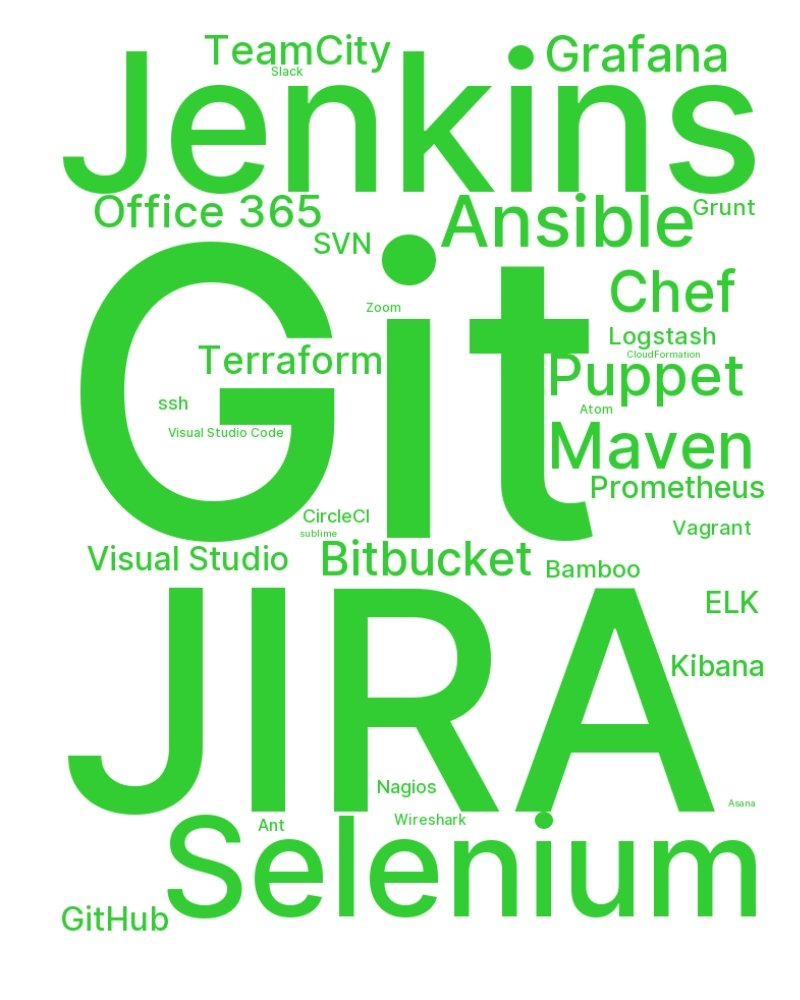
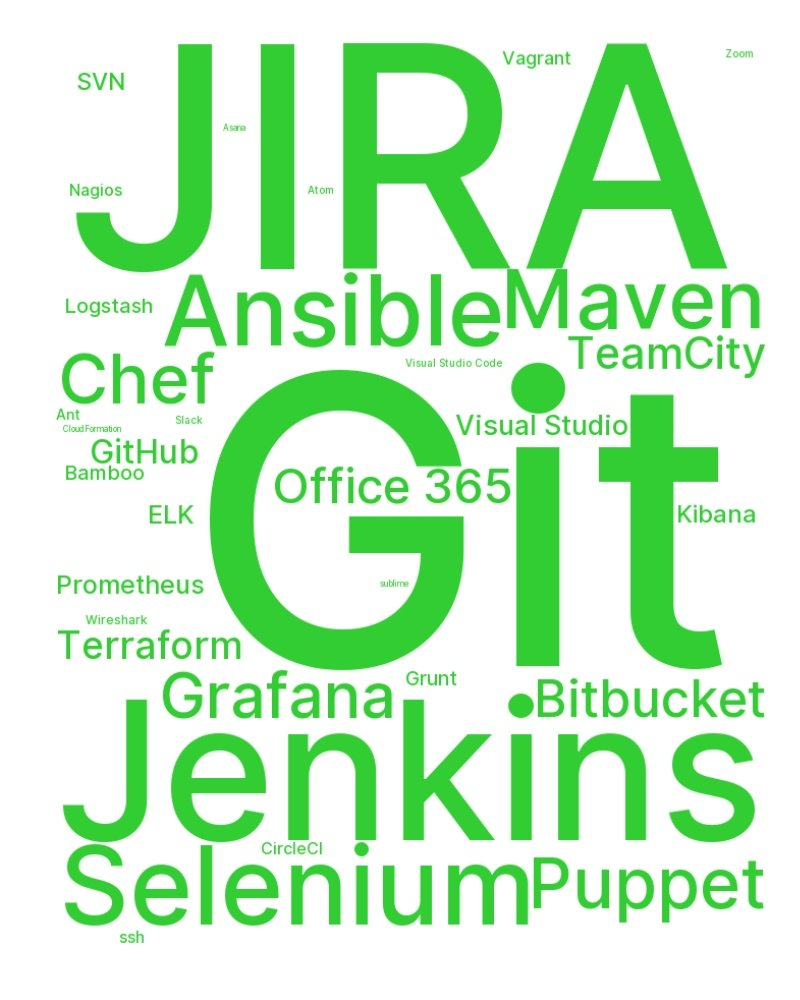
Built: 2020-03-03 21:35:23

diff --git a/index.html b/index.html
@@ -365,7 +365,7 @@ function enableBtn(){
         </h1>
         <h5>Darbdavių ieškomų kompetencijų TOP 10</h5>
         <p class="lead">Atnaujinta: 2020-03-03</p>
-	<p style="display:none;">Duomenys surinkti: 2020-03-03 06:21:13</p>
+	<p style="display:none;">Duomenys surinkti: 2020-03-03 21:33:06</p>
       </div>
     </div>
     <div class="rad-showcase__bga">
@@ -444,43 +444,43 @@ function enableBtn(){
         <div class="progress">
           <div class="progress-bar alltopkwds" role="progressbar" style="width: 100%;" aria-valuenow="25" aria-valuemin="0" aria-valuemax="100">Java</div>
         </div>
-        <p class="salary-range">Siūlomas vid. atlygis: 2377 - 4380 EUR (bruto) </p>
+        <p class="salary-range">Siūlomas vid. atlygis: 2381 - 4371 EUR (bruto) </p>
         <div class="progress">
-          <div class="progress-bar alltopkwds" role="progressbar" style="width: 92%;" aria-valuenow="25" aria-valuemin="0" aria-valuemax="100">JavaScript</div>
+          <div class="progress-bar alltopkwds" role="progressbar" style="width: 90%;" aria-valuenow="25" aria-valuemin="0" aria-valuemax="100">JavaScript</div>
         </div>
-        <p class="salary-range">Siūlomas vid. atlygis: 2433 - 4181 EUR (bruto) </p>
+        <p class="salary-range">Siūlomas vid. atlygis: 2435 - 4181 EUR (bruto) </p>
         <div class="progress">
-          <div class="progress-bar alltopkwds" role="progressbar" style="width: 77%;" aria-valuenow="25" aria-valuemin="0" aria-valuemax="100">Linux</div>
+          <div class="progress-bar alltopkwds" role="progressbar" style="width: 75%;" aria-valuenow="25" aria-valuemin="0" aria-valuemax="100">Linux</div>
         </div>
         <p class="salary-range">Siūlomas vid. atlygis: 2307 - 3871 EUR (bruto) </p>
         <div class="progress">
-          <div class="progress-bar alltopkwds" role="progressbar" style="width: 72%;" aria-valuenow="25" aria-valuemin="0" aria-valuemax="100">Git</div>
+          <div class="progress-bar alltopkwds" role="progressbar" style="width: 71%;" aria-valuenow="25" aria-valuemin="0" aria-valuemax="100">Git</div>
         </div>
-        <p class="salary-range">Siūlomas vid. atlygis: 2537 - 3984 EUR (bruto) </p>
+        <p class="salary-range">Siūlomas vid. atlygis: 2543 - 3991 EUR (bruto) </p>
         <div class="progress">
-          <div class="progress-bar alltopkwds" role="progressbar" style="width: 70%;" aria-valuenow="25" aria-valuemin="0" aria-valuemax="100">PHP</div>
+          <div class="progress-bar alltopkwds" role="progressbar" style="width: 68%;" aria-valuenow="25" aria-valuemin="0" aria-valuemax="100">PHP</div>
         </div>
         <p class="salary-range">Siūlomas vid. atlygis: 2490 - 4014 EUR (bruto) </p>
         <div class="progress">
-          <div class="progress-bar alltopkwds" role="progressbar" style="width: 64%;" aria-valuenow="25" aria-valuemin="0" aria-valuemax="100">Docker</div>
+          <div class="progress-bar alltopkwds" role="progressbar" style="width: 63%;" aria-valuenow="25" aria-valuemin="0" aria-valuemax="100">Docker</div>
         </div>
-        <p class="salary-range">Siūlomas vid. atlygis: 2586 - 4604 EUR (bruto) </p>
+        <p class="salary-range">Siūlomas vid. atlygis: 2589 - 4597 EUR (bruto) </p>
         <div class="progress">
-          <div class="progress-bar alltopkwds" role="progressbar" style="width: 60%;" aria-valuenow="25" aria-valuemin="0" aria-valuemax="100">React</div>
+          <div class="progress-bar alltopkwds" role="progressbar" style="width: 58%;" aria-valuenow="25" aria-valuemin="0" aria-valuemax="100">React</div>
         </div>
         <p class="salary-range">Siūlomas vid. atlygis: 2683 - 4716 EUR (bruto) </p>
         <div class="progress">
-          <div class="progress-bar alltopkwds" role="progressbar" style="width: 57%;" aria-valuenow="25" aria-valuemin="0" aria-valuemax="100">Python</div>
+          <div class="progress-bar alltopkwds" role="progressbar" style="width: 56%;" aria-valuenow="25" aria-valuemin="0" aria-valuemax="100">Python</div>
         </div>
-        <p class="salary-range">Siūlomas vid. atlygis: 2531 - 4206 EUR (bruto) </p>
+        <p class="salary-range">Siūlomas vid. atlygis: 2532 - 4206 EUR (bruto) </p>
         <div class="progress">
-          <div class="progress-bar alltopkwds" role="progressbar" style="width: 54%;" aria-valuenow="25" aria-valuemin="0" aria-valuemax="100">.NET</div>
+          <div class="progress-bar alltopkwds" role="progressbar" style="width: 53%;" aria-valuenow="25" aria-valuemin="0" aria-valuemax="100">.NET</div>
         </div>
-        <p class="salary-range">Siūlomas vid. atlygis: 2666 - 4380 EUR (bruto) </p>
+        <p class="salary-range">Siūlomas vid. atlygis: 2680 - 4380 EUR (bruto) </p>
         <div class="progress">
           <div class="progress-bar alltopkwds" role="progressbar" style="width: 52%;" aria-valuenow="25" aria-valuemin="0" aria-valuemax="100">CSS</div>
         </div>
-        <p class="salary-range">Siūlomas vid. atlygis: 2122 - 3818 EUR (bruto) </p>
+        <p class="salary-range">Siūlomas vid. atlygis: 2120 - 3821 EUR (bruto) </p>
       </div>
     </div>
   </div>
@@ -544,31 +544,31 @@ function enableBtn(){
         <div class="progress">
           <div class="progress-bar platforms" role="progressbar" style="width: 83%;" aria-valuenow="25" aria-valuemin="0" aria-valuemax="100">Docker</div>
         </div>
-        <p class="salary-range">Siūlomas vid. atlygis: 2586 - 4604 EUR (bruto) </p>
+        <p class="salary-range">Siūlomas vid. atlygis: 2589 - 4597 EUR (bruto) </p>
         <div class="progress">
-          <div class="progress-bar platforms" role="progressbar" style="width: 60%;" aria-valuenow="25" aria-valuemin="0" aria-valuemax="100">AWS</div>
+          <div class="progress-bar platforms" role="progressbar" style="width: 61%;" aria-valuenow="25" aria-valuemin="0" aria-valuemax="100">AWS</div>
         </div>
-        <p class="salary-range">Siūlomas vid. atlygis: 2688 - 4648 EUR (bruto) </p>
+        <p class="salary-range">Siūlomas vid. atlygis: 2672 - 4594 EUR (bruto) </p>
         <div class="progress">
-          <div class="progress-bar platforms" role="progressbar" style="width: 50%;" aria-valuenow="25" aria-valuemin="0" aria-valuemax="100">Windows</div>
+          <div class="progress-bar platforms" role="progressbar" style="width: 52%;" aria-valuenow="25" aria-valuemin="0" aria-valuemax="100">Windows</div>
         </div>
-        <p class="salary-range">Siūlomas vid. atlygis: 2021 - 3298 EUR (bruto) </p>
+        <p class="salary-range">Siūlomas vid. atlygis: 2024 - 3297 EUR (bruto) </p>
         <div class="progress">
-          <div class="progress-bar platforms" role="progressbar" style="width: 42%;" aria-valuenow="25" aria-valuemin="0" aria-valuemax="100">Azure</div>
+          <div class="progress-bar platforms" role="progressbar" style="width: 44%;" aria-valuenow="25" aria-valuemin="0" aria-valuemax="100">Azure</div>
         </div>
-        <p class="salary-range">Siūlomas vid. atlygis: 2755 - 4274 EUR (bruto) </p>
+        <p class="salary-range">Siūlomas vid. atlygis: 2730 - 4190 EUR (bruto) </p>
         <div class="progress">
           <div class="progress-bar platforms" role="progressbar" style="width: 41%;" aria-valuenow="25" aria-valuemin="0" aria-valuemax="100">Kubernetes</div>
         </div>
-        <p class="salary-range">Siūlomas vid. atlygis: 2534 - 4635 EUR (bruto) </p>
+        <p class="salary-range">Siūlomas vid. atlygis: 2539 - 4620 EUR (bruto) </p>
         <div class="progress">
           <div class="progress-bar platforms" role="progressbar" style="width: 30%;" aria-valuenow="25" aria-valuemin="0" aria-valuemax="100">iOS</div>
         </div>
-        <p class="salary-range">Siūlomas vid. atlygis: 2329 - 4533 EUR (bruto) </p>
+        <p class="salary-range">Siūlomas vid. atlygis: 2362 - 4533 EUR (bruto) </p>
         <div class="progress">
-          <div class="progress-bar platforms" role="progressbar" style="width: 23%;" aria-valuenow="25" aria-valuemin="0" aria-valuemax="100">Android</div>
+          <div class="progress-bar platforms" role="progressbar" style="width: 24%;" aria-valuenow="25" aria-valuemin="0" aria-valuemax="100">Android</div>
         </div>
-        <p class="salary-range">Siūlomas vid. atlygis: 2333 - 4577 EUR (bruto) </p>
+        <p class="salary-range">Siūlomas vid. atlygis: 2373 - 4577 EUR (bruto) </p>
         <div class="progress">
           <div class="progress-bar platforms" role="progressbar" style="width: 19%;" aria-valuenow="25" aria-valuemin="0" aria-valuemax="100">Google Cloud</div>
         </div>
@@ -576,7 +576,7 @@ function enableBtn(){
         <div class="progress">
           <div class="progress-bar platforms" role="progressbar" style="width: 16%;" aria-valuenow="25" aria-valuemin="0" aria-valuemax="100">Windows Server</div>
         </div>
-        <p class="salary-range">Siūlomas vid. atlygis: 1932 - 3128 EUR (bruto) </p>
+        <p class="salary-range">Siūlomas vid. atlygis: 1943 - 3131 EUR (bruto) </p>
       </div>
       <div class="col-12 col-md-8 pl-md-0 text-right">
         <img
@@ -641,29 +641,29 @@ function enableBtn(){
         <div class="progress">
           <div class="progress-bar proglang" role="progressbar" style="width: 100%;" aria-valuenow="25" aria-valuemin="0" aria-valuemax="100">Java</div>
         </div>
-        <p class="salary-range">Siūlomas vid. atlygis: 2377 - 4380 EUR (bruto) </p>
+        <p class="salary-range">Siūlomas vid. atlygis: 2381 - 4371 EUR (bruto) </p>
         <div class="progress">
-          <div class="progress-bar proglang" role="progressbar" style="width: 92%;" aria-valuenow="25" aria-valuemin="0" aria-valuemax="100">JavaScript</div>
+          <div class="progress-bar proglang" role="progressbar" style="width: 90%;" aria-valuenow="25" aria-valuemin="0" aria-valuemax="100">JavaScript</div>
         </div>
-        <p class="salary-range">Siūlomas vid. atlygis: 2433 - 4181 EUR (bruto) </p>
+        <p class="salary-range">Siūlomas vid. atlygis: 2435 - 4181 EUR (bruto) </p>
         <div class="progress">
-          <div class="progress-bar proglang" role="progressbar" style="width: 70%;" aria-valuenow="25" aria-valuemin="0" aria-valuemax="100">PHP</div>
+          <div class="progress-bar proglang" role="progressbar" style="width: 68%;" aria-valuenow="25" aria-valuemin="0" aria-valuemax="100">PHP</div>
         </div>
         <p class="salary-range">Siūlomas vid. atlygis: 2490 - 4014 EUR (bruto) </p>
         <div class="progress">
-          <div class="progress-bar proglang" role="progressbar" style="width: 57%;" aria-valuenow="25" aria-valuemin="0" aria-valuemax="100">Python</div>
+          <div class="progress-bar proglang" role="progressbar" style="width: 56%;" aria-valuenow="25" aria-valuemin="0" aria-valuemax="100">Python</div>
         </div>
-        <p class="salary-range">Siūlomas vid. atlygis: 2531 - 4206 EUR (bruto) </p>
+        <p class="salary-range">Siūlomas vid. atlygis: 2532 - 4206 EUR (bruto) </p>
         <div class="progress">
           <div class="progress-bar proglang" role="progressbar" style="width: 52%;" aria-valuenow="25" aria-valuemin="0" aria-valuemax="100">CSS</div>
         </div>
-        <p class="salary-range">Siūlomas vid. atlygis: 2122 - 3818 EUR (bruto) </p>
+        <p class="salary-range">Siūlomas vid. atlygis: 2120 - 3821 EUR (bruto) </p>
         <div class="progress">
-          <div class="progress-bar proglang" role="progressbar" style="width: 50%;" aria-valuenow="25" aria-valuemin="0" aria-valuemax="100">HTML</div>
+          <div class="progress-bar proglang" role="progressbar" style="width: 49%;" aria-valuenow="25" aria-valuemin="0" aria-valuemax="100">HTML</div>
         </div>
-        <p class="salary-range">Siūlomas vid. atlygis: 2169 - 3584 EUR (bruto) </p>
+        <p class="salary-range">Siūlomas vid. atlygis: 2165 - 3590 EUR (bruto) </p>
         <div class="progress">
-          <div class="progress-bar proglang" role="progressbar" style="width: 33%;" aria-valuenow="25" aria-valuemin="0" aria-valuemax="100">C#</div>
+          <div class="progress-bar proglang" role="progressbar" style="width: 32%;" aria-valuenow="25" aria-valuemin="0" aria-valuemax="100">C#</div>
         </div>
         <p class="salary-range">Siūlomas vid. atlygis: 2420 - 4095 EUR (bruto) </p>
         <div class="progress">
@@ -725,13 +725,13 @@ function enableBtn(){
         </div>
         <p class="salary-range">Siūlomas vid. atlygis: 2268 - 4211 EUR (bruto) </p>
         <div class="progress">
-          <div class="progress-bar databases" role="progressbar" style="width: 91%;" aria-valuenow="25" aria-valuemin="0" aria-valuemax="100">Oracle</div>
+          <div class="progress-bar databases" role="progressbar" style="width: 92%;" aria-valuenow="25" aria-valuemin="0" aria-valuemax="100">Oracle</div>
         </div>
-        <p class="salary-range">Siūlomas vid. atlygis: 2283 - 3917 EUR (bruto) </p>
+        <p class="salary-range">Siūlomas vid. atlygis: 2301 - 3925 EUR (bruto) </p>
         <div class="progress">
-          <div class="progress-bar databases" role="progressbar" style="width: 68%;" aria-valuenow="25" aria-valuemin="0" aria-valuemax="100">PostgreSQL</div>
+          <div class="progress-bar databases" role="progressbar" style="width: 69%;" aria-valuenow="25" aria-valuemin="0" aria-valuemax="100">PostgreSQL</div>
         </div>
-        <p class="salary-range">Siūlomas vid. atlygis: 2468 - 4818 EUR (bruto) </p>
+        <p class="salary-range">Siūlomas vid. atlygis: 2472 - 4803 EUR (bruto) </p>
         <div class="progress">
           <div class="progress-bar databases" role="progressbar" style="width: 42%;" aria-valuenow="25" aria-valuemin="0" aria-valuemax="100">MongoDB</div>
         </div>
@@ -741,21 +741,21 @@ function enableBtn(){
         </div>
         <p class="salary-range">Siūlomas vid. atlygis: 2905 - 4811 EUR (bruto) </p>
         <div class="progress">
-          <div class="progress-bar databases" role="progressbar" style="width: 34%;" aria-valuenow="25" aria-valuemin="0" aria-valuemax="100">Redis</div>
+          <div class="progress-bar databases" role="progressbar" style="width: 35%;" aria-valuenow="25" aria-valuemin="0" aria-valuemax="100">Redis</div>
         </div>
-        <p class="salary-range">Siūlomas vid. atlygis: 3264 - 5568 EUR (bruto) </p>
+        <p class="salary-range">Siūlomas vid. atlygis: 3252 - 5509 EUR (bruto) </p>
         <div class="progress">
-          <div class="progress-bar databases" role="progressbar" style="width: 22%;" aria-valuenow="25" aria-valuemin="0" aria-valuemax="100">Microsoft SQL Server</div>
+          <div class="progress-bar databases" role="progressbar" style="width: 23%;" aria-valuenow="25" aria-valuemin="0" aria-valuemax="100">Microsoft SQL Server</div>
         </div>
-        <p class="salary-range">Siūlomas vid. atlygis: 2308 - 4119 EUR (bruto) </p>
+        <p class="salary-range">Siūlomas vid. atlygis: 2308 - 4048 EUR (bruto) </p>
         <div class="progress">
           <div class="progress-bar databases" role="progressbar" style="width: 16%;" aria-valuenow="25" aria-valuemin="0" aria-valuemax="100">Cassandra</div>
         </div>
         <p class="salary-range">Siūlomas vid. atlygis: 3096 - 5855 EUR (bruto) </p>
         <div class="progress">
-          <div class="progress-bar databases" role="progressbar" style="width: 7%;" aria-valuenow="25" aria-valuemin="0" aria-valuemax="100">MariaDB</div>
+          <div class="progress-bar databases" role="progressbar" style="width: 8%;" aria-valuenow="25" aria-valuemin="0" aria-valuemax="100">MariaDB</div>
         </div>
-        <p class="salary-range">Siūlomas vid. atlygis: 1931 - 3483 EUR (bruto) </p>
+        <p class="salary-range">Siūlomas vid. atlygis: 1828 - 3387 EUR (bruto) </p>
         <div class="progress">
           <div class="progress-bar databases" role="progressbar" style="width: 7%;" aria-valuenow="25" aria-valuemin="0" aria-valuemax="100">Firebase</div>
         </div>
@@ -826,9 +826,9 @@ function enableBtn(){
         </div>
         <p class="salary-range">Siūlomas vid. atlygis: 2683 - 4716 EUR (bruto) </p>
         <div class="progress">
-          <div class="progress-bar webframeworks" role="progressbar" style="width: 66%;" aria-valuenow="25" aria-valuemin="0" aria-valuemax="100">Spring</div>
+          <div class="progress-bar webframeworks" role="progressbar" style="width: 68%;" aria-valuenow="25" aria-valuemin="0" aria-valuemax="100">Spring</div>
         </div>
-        <p class="salary-range">Siūlomas vid. atlygis: 2515 - 4511 EUR (bruto) </p>
+        <p class="salary-range">Siūlomas vid. atlygis: 2521 - 4488 EUR (bruto) </p>
         <div class="progress">
           <div class="progress-bar webframeworks" role="progressbar" style="width: 65%;" aria-valuenow="25" aria-valuemin="0" aria-valuemax="100">Angular</div>
         </div>
@@ -906,17 +906,21 @@ function enableBtn(){
         <div class="progress">
           <div class="progress-bar otherframeworks otherframeworks" role="progressbar" style="width: 100%;" aria-valuenow="25" aria-valuemin="0" aria-valuemax="100">.NET</div>
         </div>
-        <p class="salary-range">Siūlomas vid. atlygis: 2666 - 4380 EUR (bruto) </p>
+        <p class="salary-range">Siūlomas vid. atlygis: 2680 - 4380 EUR (bruto) </p>
         <div class="progress">
           <div class="progress-bar otherframeworks otherframeworks" role="progressbar" style="width: 46%;" aria-valuenow="25" aria-valuemin="0" aria-valuemax="100">REST API</div>
         </div>
-        <p class="salary-range">Siūlomas vid. atlygis: 2693 - 4112 EUR (bruto) </p>
+        <p class="salary-range">Siūlomas vid. atlygis: 2720 - 4112 EUR (bruto) </p>
         <div class="progress">
-          <div class="progress-bar otherframeworks otherframeworks" role="progressbar" style="width: 31%;" aria-valuenow="25" aria-valuemin="0" aria-valuemax="100">Node.js</div>
+          <div class="progress-bar otherframeworks otherframeworks" role="progressbar" style="width: 39%;" aria-valuenow="25" aria-valuemin="0" aria-valuemax="100">AD</div>
         </div>
-        <p class="salary-range">Siūlomas vid. atlygis: 3173 - 5036 EUR (bruto) </p>
+        <p class="salary-range">Siūlomas vid. atlygis: 1893 - 3588 EUR (bruto) </p>
         <div class="progress">
-          <div class="progress-bar otherframeworks otherframeworks" role="progressbar" style="width: 26%;" aria-valuenow="25" aria-valuemin="0" aria-valuemax="100">.NET Core</div>
+          <div class="progress-bar otherframeworks otherframeworks" role="progressbar" style="width: 32%;" aria-valuenow="25" aria-valuemin="0" aria-valuemax="100">Node.js</div>
+        </div>
+        <p class="salary-range">Siūlomas vid. atlygis: 3145 - 4931 EUR (bruto) </p>
+        <div class="progress">
+          <div class="progress-bar otherframeworks otherframeworks" role="progressbar" style="width: 26%;" aria-valuenow="25" aria-valuemin="0" aria-valuemax="100">__NET Core</div>
         </div>
         <p class="salary-range">Siūlomas vid. atlygis: 2921 - 4793 EUR (bruto) </p>
         <div class="progress">
@@ -939,10 +943,6 @@ function enableBtn(){
           <div class="progress-bar otherframeworks otherframeworks" role="progressbar" style="width: 7%;" aria-valuenow="25" aria-valuemin="0" aria-valuemax="100">JUnit</div>
         </div>
         <p class="salary-range">Siūlomas vid. atlygis: 3017 - 4870 EUR (bruto) </p>
-        <div class="progress">
-          <div class="progress-bar otherframeworks otherframeworks" role="progressbar" style="width: 3%;" aria-valuenow="25" aria-valuemin="0" aria-valuemax="100">Cucumber</div>
-        </div>
-        <p class="salary-range">Siūlomas vid. atlygis: 2218 - 4275 EUR (bruto) </p>
       </div>
       <div class="col-12 col-md-8 pl-md-0 text-right">
         <img
@@ -1007,11 +1007,11 @@ function enableBtn(){
         <div class="progress">
           <div class="progress-bar tools" role="progressbar" style="width: 100%;" aria-valuenow="25" aria-valuemin="0" aria-valuemax="100">Git</div>
         </div>
-        <p class="salary-range">Siūlomas vid. atlygis: 2537 - 3984 EUR (bruto) </p>
+        <p class="salary-range">Siūlomas vid. atlygis: 2543 - 3991 EUR (bruto) </p>
         <div class="progress">
-          <div class="progress-bar tools" role="progressbar" style="width: 53%;" aria-valuenow="25" aria-valuemin="0" aria-valuemax="100">JIRA</div>
+          <div class="progress-bar tools" role="progressbar" style="width: 54%;" aria-valuenow="25" aria-valuemin="0" aria-valuemax="100">JIRA</div>
         </div>
-        <p class="salary-range">Siūlomas vid. atlygis: 2434 - 3853 EUR (bruto) </p>
+        <p class="salary-range">Siūlomas vid. atlygis: 2469 - 3862 EUR (bruto) </p>
         <div class="progress">
           <div class="progress-bar tools" role="progressbar" style="width: 43%;" aria-valuenow="25" aria-valuemin="0" aria-valuemax="100">Jenkins</div>
         </div>
@@ -1027,13 +1027,13 @@ function enableBtn(){
         <div class="progress">
           <div class="progress-bar tools" role="progressbar" style="width: 18%;" aria-valuenow="25" aria-valuemin="0" aria-valuemax="100">Maven</div>
         </div>
-        <p class="salary-range">Siūlomas vid. atlygis: 2497 - 4108 EUR (bruto) </p>
+        <p class="salary-range">Siūlomas vid. atlygis: 2515 - 4122 EUR (bruto) </p>
         <div class="progress">
           <div class="progress-bar tools" role="progressbar" style="width: 14%;" aria-valuenow="25" aria-valuemin="0" aria-valuemax="100">Puppet</div>
         </div>
         <p class="salary-range">Siūlomas vid. atlygis: 2374 - 5148 EUR (bruto) </p>
         <div class="progress">
-          <div class="progress-bar tools" role="progressbar" style="width: 14%;" aria-valuenow="25" aria-valuemin="0" aria-valuemax="100">Chef</div>
+          <div class="progress-bar tools" role="progressbar" style="width: 13%;" aria-valuenow="25" aria-valuemin="0" aria-valuemax="100">Chef</div>
         </div>
         <p class="salary-range">Siūlomas vid. atlygis: 2177 - 4530 EUR (bruto) </p>
         <div class="progress">
@@ -1216,6 +1216,10 @@ function enableBtn(){
         </div>
         <p class="salary-range">Siūlomas vid. atlygis: 2568 - 3886 EUR (bruto) </p>
         <div class="progress">
+          <div class="progress-bar networking" role="progressbar" style="width: 30%;" aria-valuenow="25" aria-valuemin="0" aria-valuemax="100">WiFi</div>
+        </div>
+        <p class="salary-range">Siūlomas vid. atlygis: 1751 - 2250 EUR (bruto) </p>
+        <div class="progress">
           <div class="progress-bar networking" role="progressbar" style="width: 27%;" aria-valuenow="25" aria-valuemin="0" aria-valuemax="100">NAT</div>
         </div>
         <p class="salary-range">Siūlomas vid. atlygis: 2355 - 3555 EUR (bruto) </p>
@@ -1223,10 +1227,6 @@ function enableBtn(){
           <div class="progress-bar networking" role="progressbar" style="width: 24%;" aria-valuenow="25" aria-valuemin="0" aria-valuemax="100">Cisco</div>
         </div>
         <p class="salary-range">Siūlomas vid. atlygis: 1556 - 2282 EUR (bruto) </p>
-        <div class="progress">
-          <div class="progress-bar networking" role="progressbar" style="width: 24%;" aria-valuenow="25" aria-valuemin="0" aria-valuemax="100">Load balancing</div>
-        </div>
-        <p class="salary-range">Siūlomas vid. atlygis: 2887 - 3435 EUR (bruto) </p>
       </div>
     </div>
     
@@ -1272,31 +1272,31 @@ function enableBtn(){
         <div class="progress">
           <div class="progress-bar buzzwords" role="progressbar" style="width: 100%;" aria-valuenow="25" aria-valuemin="0" aria-valuemax="100">Agile</div>
         </div>
-        <p class="salary-range">Siūlomas vid. atlygis: 2523 - 4338 EUR (bruto) </p>
+        <p class="salary-range">Siūlomas vid. atlygis: 2525 - 4320 EUR (bruto) </p>
         <div class="progress">
-          <div class="progress-bar buzzwords" role="progressbar" style="width: 48%;" aria-valuenow="25" aria-valuemin="0" aria-valuemax="100">Automation</div>
+          <div class="progress-bar buzzwords" role="progressbar" style="width: 47%;" aria-valuenow="25" aria-valuemin="0" aria-valuemax="100">Automation</div>
         </div>
-        <p class="salary-range">Siūlomas vid. atlygis: 2222 - 3896 EUR (bruto) </p>
+        <p class="salary-range">Siūlomas vid. atlygis: 2218 - 3886 EUR (bruto) </p>
         <div class="progress">
-          <div class="progress-bar buzzwords" role="progressbar" style="width: 42%;" aria-valuenow="25" aria-valuemin="0" aria-valuemax="100">Cloud</div>
+          <div class="progress-bar buzzwords" role="progressbar" style="width: 43%;" aria-valuenow="25" aria-valuemin="0" aria-valuemax="100">Cloud</div>
         </div>
-        <p class="salary-range">Siūlomas vid. atlygis: 2750 - 4702 EUR (bruto) </p>
+        <p class="salary-range">Siūlomas vid. atlygis: 2738 - 4664 EUR (bruto) </p>
         <div class="progress">
-          <div class="progress-bar buzzwords" role="progressbar" style="width: 36%;" aria-valuenow="25" aria-valuemin="0" aria-valuemax="100">Security</div>
+          <div class="progress-bar buzzwords" role="progressbar" style="width: 37%;" aria-valuenow="25" aria-valuemin="0" aria-valuemax="100">Security</div>
         </div>
         <p class="salary-range">Siūlomas vid. atlygis: 2595 - 4245 EUR (bruto) </p>
         <div class="progress">
           <div class="progress-bar buzzwords" role="progressbar" style="width: 36%;" aria-valuenow="25" aria-valuemin="0" aria-valuemax="100">Scrum</div>
         </div>
-        <p class="salary-range">Siūlomas vid. atlygis: 2466 - 4175 EUR (bruto) </p>
+        <p class="salary-range">Siūlomas vid. atlygis: 2479 - 4159 EUR (bruto) </p>
         <div class="progress">
           <div class="progress-bar buzzwords" role="progressbar" style="width: 33%;" aria-valuenow="25" aria-valuemin="0" aria-valuemax="100">Analytics</div>
         </div>
-        <p class="salary-range">Siūlomas vid. atlygis: 2533 - 3831 EUR (bruto) </p>
+        <p class="salary-range">Siūlomas vid. atlygis: 2533 - 3809 EUR (bruto) </p>
         <div class="progress">
-          <div class="progress-bar buzzwords" role="progressbar" style="width: 25%;" aria-valuenow="25" aria-valuemin="0" aria-valuemax="100">DevOps</div>
+          <div class="progress-bar buzzwords" role="progressbar" style="width: 26%;" aria-valuenow="25" aria-valuemin="0" aria-valuemax="100">DevOps</div>
         </div>
-        <p class="salary-range">Siūlomas vid. atlygis: 2792 - 4718 EUR (bruto) </p>
+        <p class="salary-range">Siūlomas vid. atlygis: 2787 - 4680 EUR (bruto) </p>
         <div class="progress">
           <div class="progress-bar buzzwords" role="progressbar" style="width: 20%;" aria-valuenow="25" aria-valuemin="0" aria-valuemax="100">IoT</div>
         </div>
